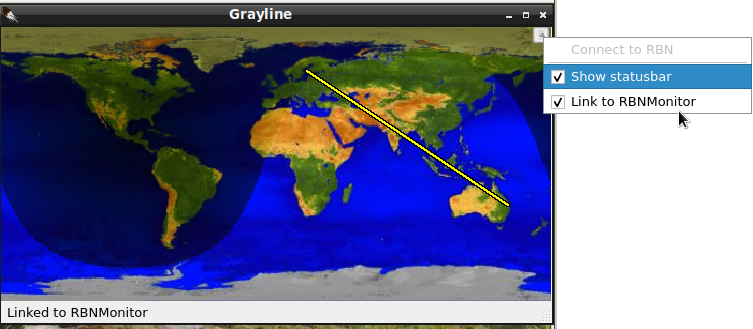
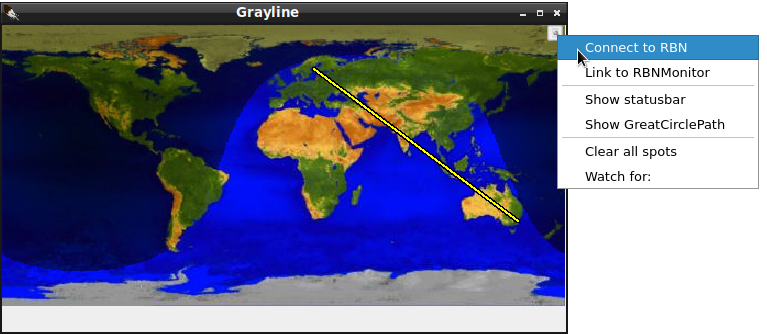
Combined grat_circle and gray_spots. Help files fixed. Still needs check why map spots are blinking and are they really band releted as original help says

Changed region(s): [[0.0, 0.0, 1.0, 1.0]]

diff --git a/help/h1.html b/help/h1.html
@@ -708,7 +708,7 @@ There are no known dependencies issues.<br><br>
     <img src="img/h1114.png"><br><br>
     <ul>
       <li><strong>Login:</strong> - your user name to log in to RBN. It's usually your own callsign.</li>
-      <li><strong>Watch for:</strong> the callsign you are watching for, also usually your own callsign. 
+      <li><strong>Watch for:</strong> the callsign you are watching for, usually your own callsign but can be any. You can also type in prefix followed by asterisk I.E. OK* etc.
        If you leave this field empty, every spot will be shown on the grayline map.</li>
       <li><strong>Signal strength</strong> How strong you are will be clear very quickly when you look
     at the map with the dots in different colours. Which colour will be used can be set here.</li>
@@ -716,11 +716,12 @@ There are no known dependencies issues.<br><br>
     to RBN when the Grayline and/or RBN Monitor window opens. If you have closed cqrlog with window(s) open they will open at next program start
     and so also connection is made.</li>
     <ul>
-      <li><strong>Autoconnect RBN Grayline</strong> connects Grayline map to RBN.</li>
-      <li><strong>Autoconnect RBN Monitor</strong> connects RBN Monitor to RBN. See: <a href="./h31.html">Operation/RBN monitor</a></li>
-      <li><strong>Link Grayline to RBN Monitor.</strong> links Grayline to same connection as RBN Monitor uses and does not allow to create a new connection to Grayline itself. This is usefull with QT5 widgets compiled version as there the direct Grayline RBN connection does not work. It also saves one connection in all cases as the same RBN connection can be used for both Grayline dotting and RBN Monitor listing.
-      <br>Linking alone does not start Grayline dotting. Connection to RBN must be done either here with <strong>Autoconnect RBN Monitor</strong> or <strong>manually</strong> at RBM Monitor window side.</li>
-      <strong>Note:</strong> Even when linked, Grayline dotting and RBN Monitor listing both uses their own settings what call(s) to follow.
+      <li><strong>Autoconnect RBN Grayline</strong> connects Grayline map to RBN.
+      <br>Connection to RBN must be done either here with <strong>Autoconnect RBN Monitor</strong> or <strong>manually</strong> at Grayline window side.</li>
+      <li><strong>Autoconnect RBN Monitor</strong> connects RBN Monitor to RBN site. See: <a href="./h31.html">Operation/RBN monitor</a></li>
+      <li><strong>Link Grayline to RBN Monitor</strong> links Grayline to same connection as RBN Monitor uses. It saves one connection as the same RBN connection can be used for both Grayline dotting and RBN Monitor listing.
+      </li>
+      <strong>Note:</strong> Linking alone does not start Grayline dotting.When linked, Grayline dotting and RBN Monitor listing both uses their own filter settings what call(s) to follow.
       <br><strong>Note:</strong> "Connect RBN Grayline" and "Link Grayline to RBN Monitor" are alternatives. You can not select both of them at same time.</li>
     </ul>
       <li><strong>Delete old information after XX seconds</strong> The dots won't stay on the map forever.
@@ -728,7 +729,7 @@ There are no known dependencies issues.<br><br>
     if you change band, dots will always be deleted. All data is band related.</li>
     </ul>
     <br><br>
-    <img src="img/h1114b.png"><br><br>
+
     <a name=ch7><h2><strong>Online log upload support</strong></h2></a>
     CQRLOG supports online log upload to <a href="http://HamQTH.com">HamQTH</a>,
     <a href="https://secure.clublog.org/loginform.php">ClubLog.org</a> and

diff --git a/help/h32.html b/help/h32.html
@@ -1,0 +1,64 @@
+<!DOCTYPE HTML PUBLIC "-//W3C//DTD HTML 4.01 Transitional//EN">
+<html>
+<meta http-equiv="Content-Type" content="text/html;charset=utf-8">
+<head>
+    <title>CQRLOG </title>
+</head>
+<body>
+<table border="0" cellpadding="5" cellspacing="2" width="100%">
+    <tbody>
+    <tr>
+        <td valign="top"><img src="img/exc.png"></td>
+        <td bgcolor=ffffcc valign="top" align="justify"><strong>
+            <font color="red">WARNING!</font></strong>
+            Backup your data often! BACKUP your log directory at the end of EVERY session!
+            All that you need to backup and store in a safe place is the log database directory
+            located in the ~/.config/cqrlog/database folder, or you can enable the autobackup function
+            in Preferences. This autobackup function creates an ADIF file with a backup of your log.
+            /td>
+    </tr>
+    </tbody>
+</table>
+<table style="text-align: left; width: 100%;" border="0" cellpadding="2" cellspacing="2">
+    <tbody>
+    <tr>
+        <td width="33%" align="center">[<a href="index.html" target="_top">Menu</a>]</td>
+    </tr>
+    </tbody>
+</table>
+<br>
+<div style="text-align: left;"><strong>CQRLOG for LINUX by OK2CQR &amp; OK1RR</strong></div>
+<p align="center"><img src=img/line.png></p>
+<h3>Grayline map</h3>
+<p> Grayline window opens from NewQSO/Window/Grayline.</p>
+<p>
+ Grayline map has speed button at top right corner that opens a popup menu containing:
+   <ul>
+   <li> <b>Connect to RBN</b> If autoconnect is not seleceted, see: <a href="h1.html#ch6">RBN support</a>, the connect and disconnect to RBN can be done here.</li>
+   <li> <b>Link to RBNMonitor</b> This is alternative to RBN connection and will use same connection as RBN monitor window has (if connected).</li>
+   <li> <b>Show statusbar</b> Shows connection or linking state</li>
+   <li> <b>Show GreatCirclePath</b> By default Grayline map will show straight line from your station (from your locator defined) to station you enter to NewQSO/callsign. 
+   With this selection you can switch the  straight line to plotted great circle path. </li>
+   <li> <b>Clear all spots</b> Clears all RBN spots from map.</li>
+   <li> <b>Wathc for</b> Opens an edit window where you can change callsign or prefix watched without opening preferences. see: <a href="h1.html#ch6">RBN support</a></li>
+   </ul>
+
+
+    <img src="img/h1114b.png"><br><br>
+    <img src="img/h1114c.png"><br><br>
+    <img src="img/h1114d.png"><br><br>
+
+
+
+<p align="center"><img src=img/line.png></p>
+<br>
+<table width="100%" border="0" cellpadding="2" cellspacing="2">
+    <tbody>
+    <tr>
+        <td width="33%" align="center">[<a href="index.html" target="_top">Menu</a>]</td>
+    </tr>
+    </tbody>
+</table>
+<br>
+</body>
+</html>

diff --git a/help/index_left.html b/help/index_left.html
@@ -63,6 +63,7 @@
     <li><a target="right" href="wsjt.html">Digital modes:</a> <em>wsjt-x</em></li>
     <li><a target="right" href="h21.html#ah19">DX Cluster Operation</a></li>
     <li><a target="right" href="h23.html#ah22">Filtering</a></li>
+    <li><a target="right" href="h32.html">Grayline map</a></li>
     <li><a target="right" href="h25.html#grp">Group edit</a></li>
     <li><a target="right" href="gridmap.html">Grid Map</a></li>
     <li><a target="right" href="h7.html">LoTW</a></li>
